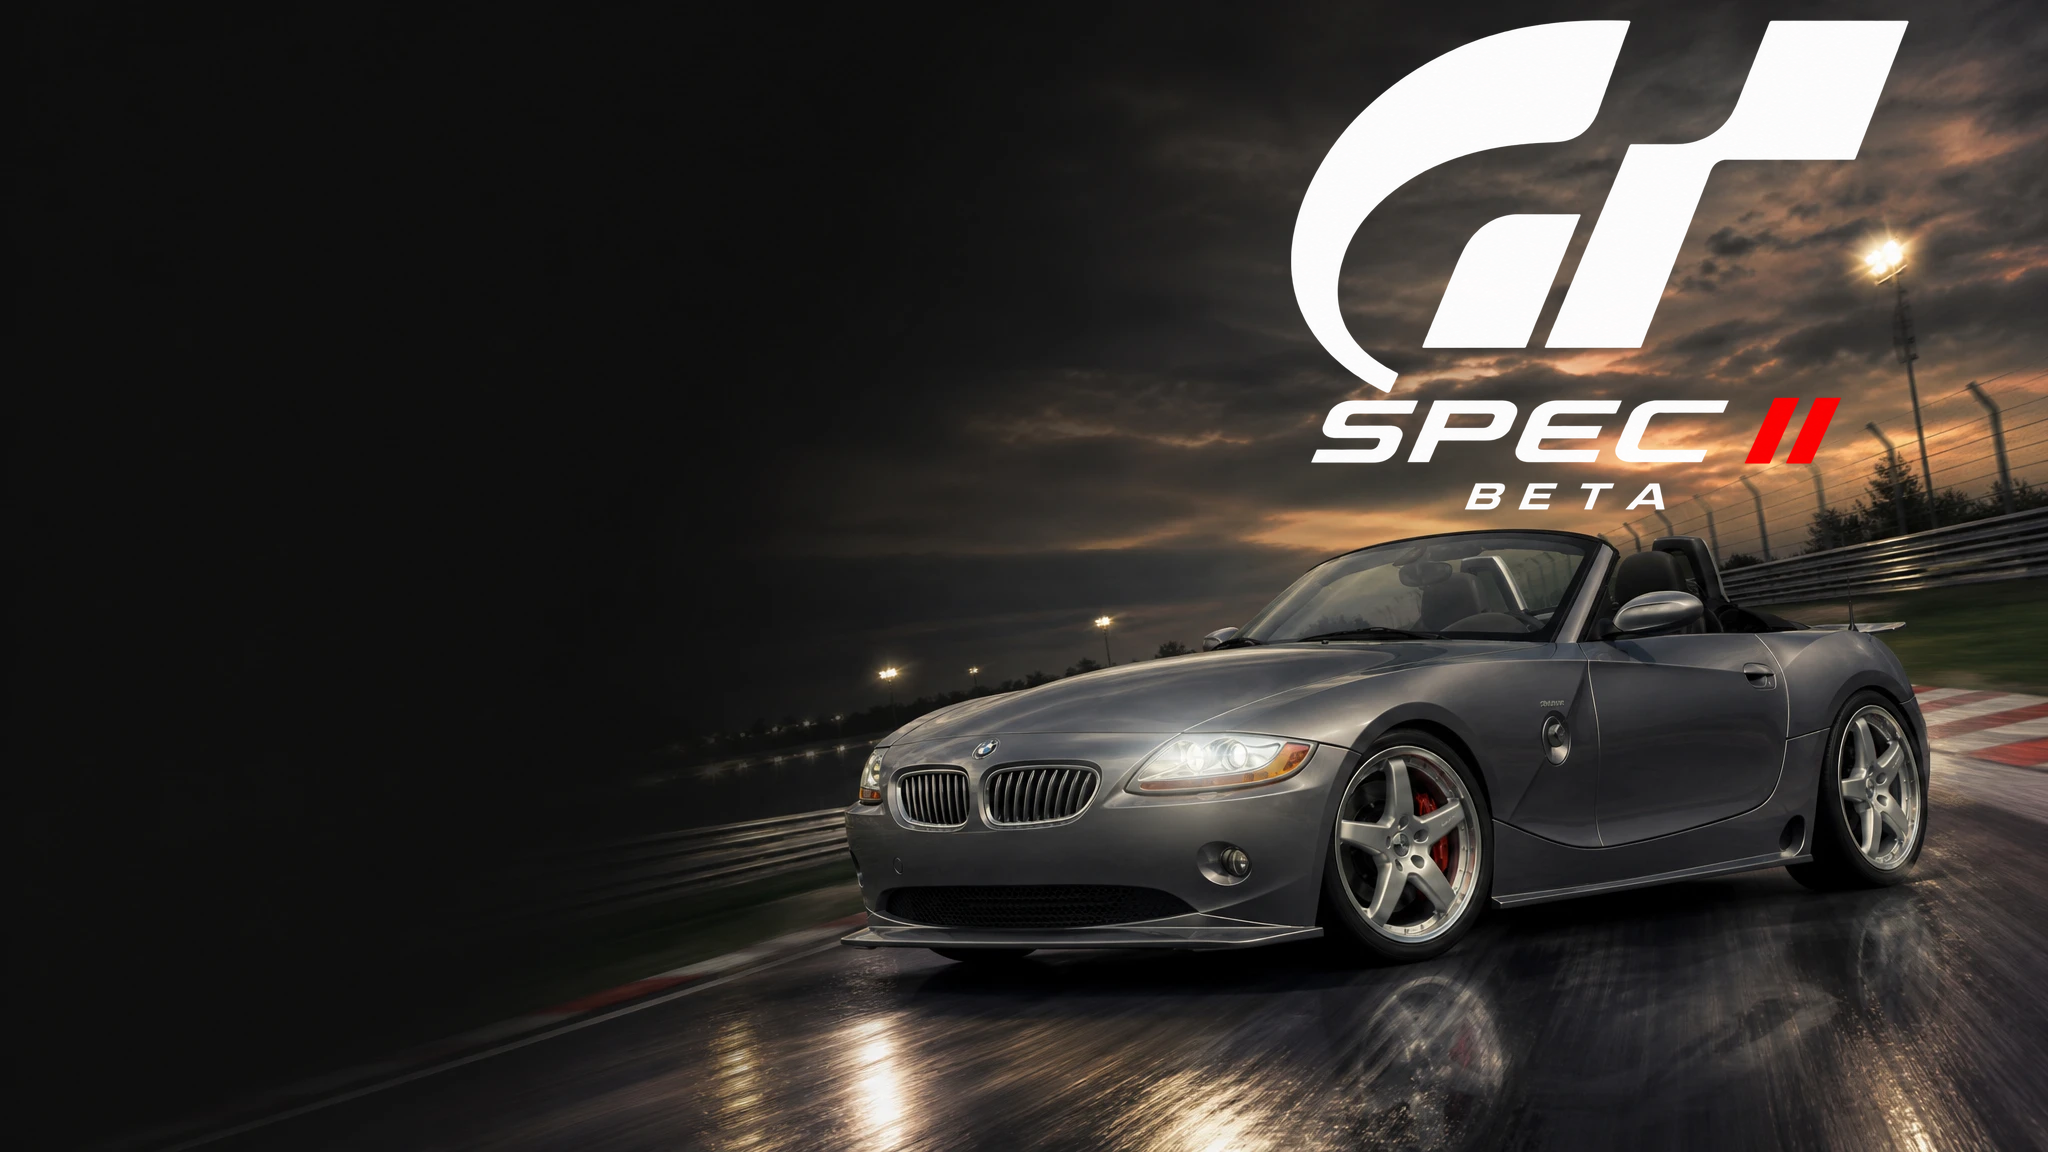
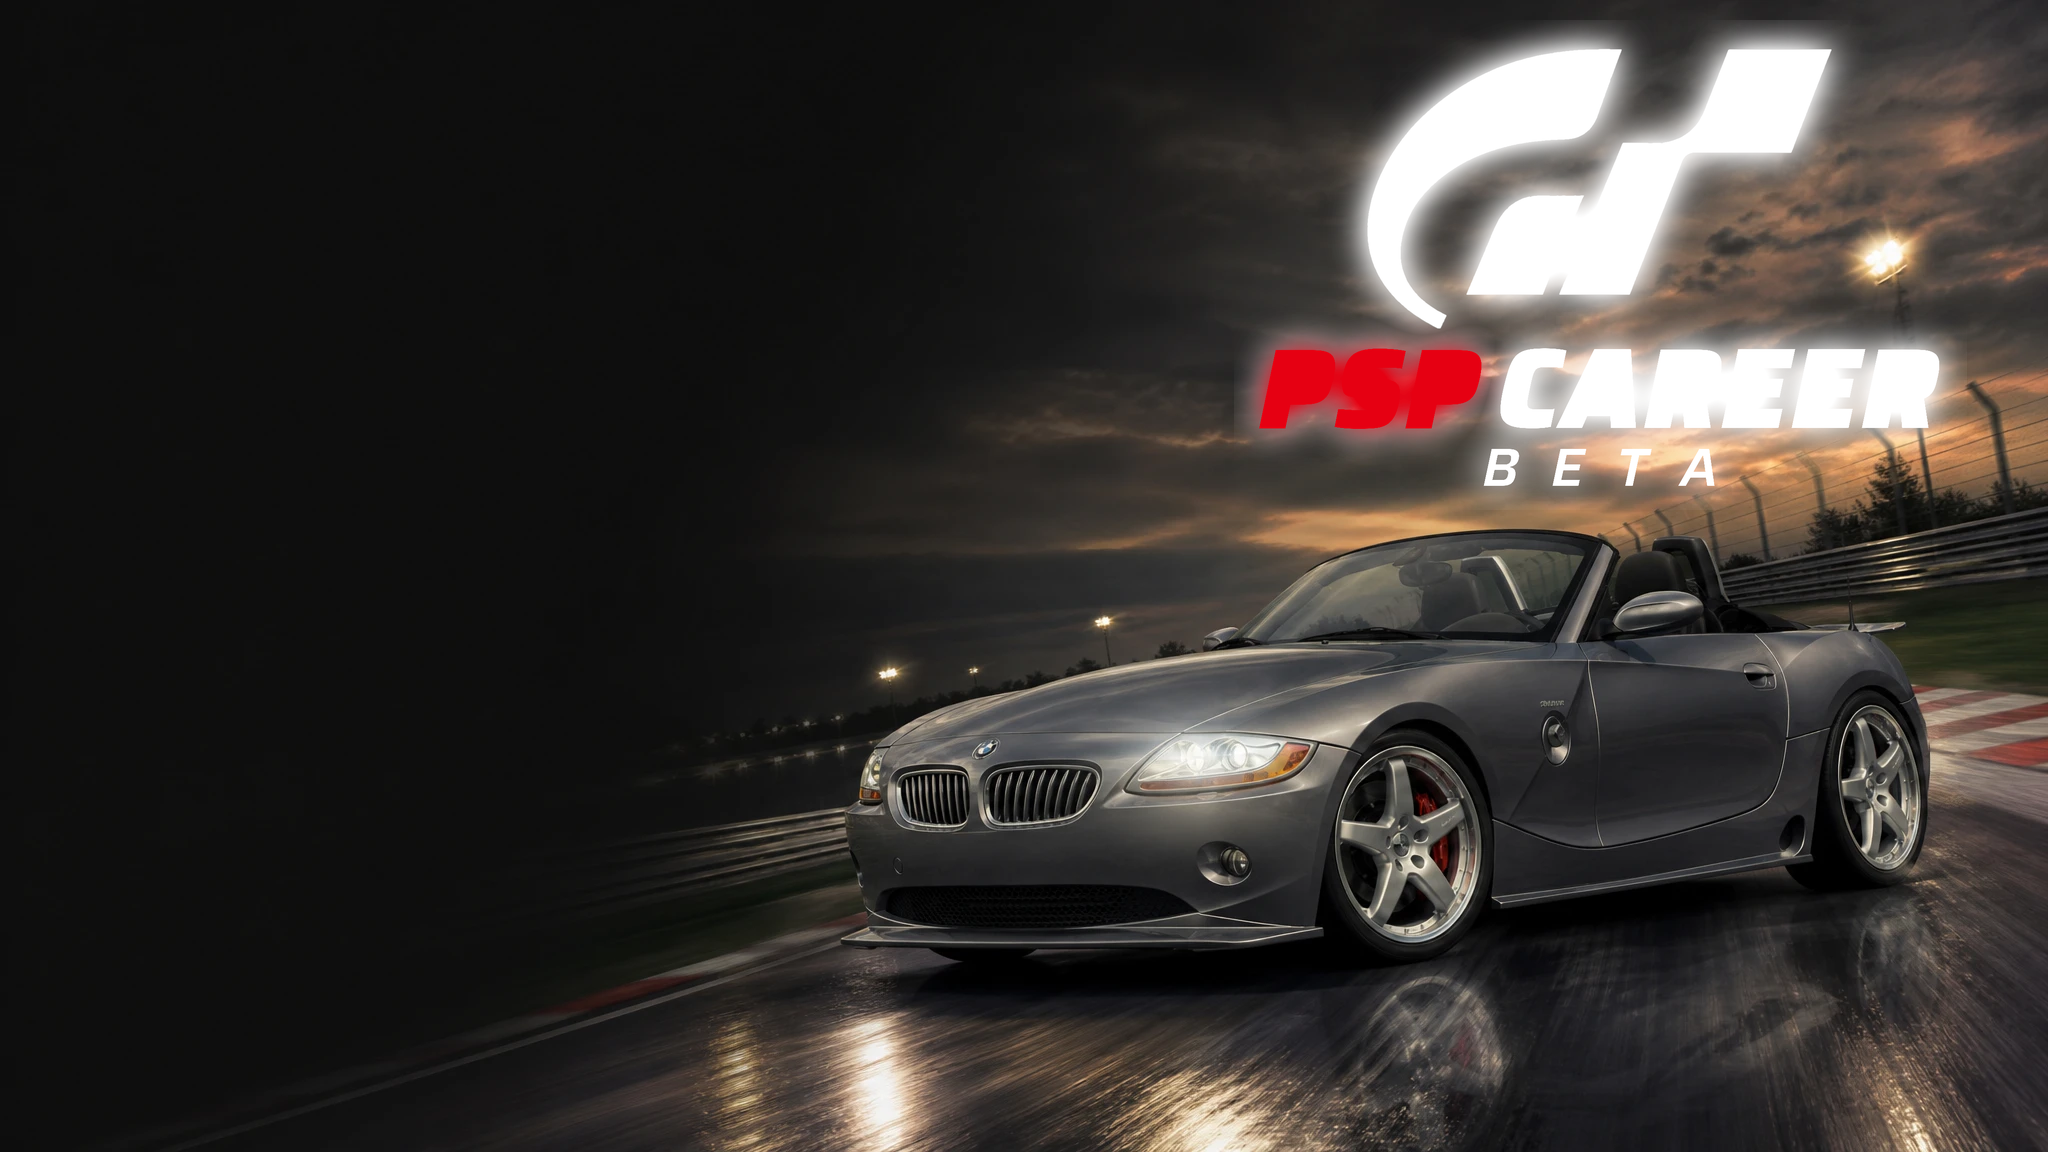
Rename the project to Gran Turismo PSP Career
New cover and trailer thumbnail, links to the renamed repository and patch
selector. Beta.1 asset filenames are unchanged, so the selector and install
table still point at them.

Changed region(s): [[0.5938, 0.0, 0.9688, 0.4688]]

diff --git a/docs/index.html b/docs/index.html
@@ -3,7 +3,7 @@
 <head>
   <meta charset="utf-8">
   <meta name="viewport" content="width=device-width, initial-scale=1">
-  <title>Find your GT Career: Spec II patch</title>
+  <title>Find your Gran Turismo PSP Career patch</title>
   <style>
     :root { color-scheme: dark; font-family: system-ui, -apple-system, BlinkMacSystemFont, "Segoe UI", sans-serif; }
     body { margin: 0; background: #101216; color: #f3f4f6; }
@@ -30,7 +30,7 @@
 </head>
 <body>
   <main>
-    <div class="eyebrow">GT Career: Spec II</div>
+    <div class="eyebrow">Gran Turismo PSP Career</div>
     <h1>Find the right patch for your game</h1>
     <p>Choose your original Gran Turismo PSP ISO. This page checks it on your device and points you to the matching beta patch. Your game file is never uploaded.</p>
 
@@ -46,12 +46,12 @@
       </div>
     </div>
 
-    <p class="small">Use a copy of your ISO when applying the patch with <a href="https://deltapatcher.net/">Delta Patcher</a>. See the <a href="https://github.com/Memetrix/gtpsp-career-spec-ii/blob/main/INSTALL.md">installation guide</a> for the three supported USA versions and save instructions. The European version is planned for the full release after beta.</p>
+    <p class="small">Use a copy of your ISO when applying the patch with <a href="https://deltapatcher.net/">Delta Patcher</a>. See the <a href="https://github.com/Memetrix/gran-turismo-psp-career/blob/main/INSTALL.md">installation guide</a> for the three supported USA versions and save instructions. The European version is planned for the full release after beta.</p>
     <details><summary>What does this page check?</summary><p>It reads the file size and CRC32 locally. Delta Patcher then verifies the original image before applying the patch. Supported USA CRC32 values: <code>9613AC93</code>, <code>1EADB6B4</code>, and <code>71DCC467</code>.</p></details>
   </main>
   <script>
     const expectedSize = 1097826304;
-    const release = 'https://github.com/Memetrix/gtpsp-career-spec-ii/releases/download/v0.27.2-beta.1/';
+    const release = 'https://github.com/Memetrix/gran-turismo-psp-career/releases/download/v0.27.2-beta.1/';
     const variants = {
       '9613AC93': ['USA UMD v1.00', 'GT-Career-SpecII-v0.27.2-beta.1-USA-UMD-v1.xdelta'],
       '1EADB6B4': ['USA UMD v2.00', 'GT-Career-SpecII-v0.27.2-beta.1-USA-UMD-v2.xdelta'],

diff --git a/README.md b/README.md
@@ -1,29 +1,29 @@
 <div align="center">
 
-# GT CAREER: SPEC II
+# GRAN TURISMO PSP CAREER
 
 ### The career Gran Turismo PSP never got.
 
-![GT Career: Spec II beta cover](art/cover.png)
+![Gran Turismo PSP Career beta cover](art/cover.png)
 
-**[WATCH THE TRAILER](https://www.youtube.com/watch?v=EhzWIxJF08s)** · **[DOWNLOAD PUBLIC BETA](https://github.com/Memetrix/gtpsp-career-spec-ii/releases/tag/v0.27.2-beta.1)** · **[INSTALLATION GUIDE](INSTALL.md)** · **[RELEASE NOTES](RELEASE-NOTES-v0.27.2-beta.1.md)**
+**[WATCH THE TRAILER](https://www.youtube.com/watch?v=EhzWIxJF08s)** · **[DOWNLOAD PUBLIC BETA](https://github.com/Memetrix/gran-turismo-psp-career/releases/tag/v0.27.2-beta.1)** · **[INSTALLATION GUIDE](INSTALL.md)** · **[RELEASE NOTES](RELEASE-NOTES-v0.27.2-beta.1.md)**
 
 **163 competitions · 763 rounds · 9 halls · 5 lost tracks on PSP Go**
 
 </div>
 
-Gran Turismo PSP has the cars and the driving. **Spec II gives them the career they were missing:** 163 competitions, a proper parts shop, prize cars and full-length endurance races.
+Gran Turismo PSP has the cars and the driving. **Gran Turismo PSP Career gives them the career they were missing:** 163 competitions, a proper parts shop, prize cars and full-length endurance races.
 
 ## Trailer
 
-[![Watch the GT Career: Spec II public beta trailer](art/trailer-thumbnail.jpg)](https://www.youtube.com/watch?v=EhzWIxJF08s)
+[![Watch the Gran Turismo PSP Career public beta trailer](art/trailer-thumbnail.jpg)](https://www.youtube.com/watch?v=EhzWIxJF08s)
 
 ## Career
 
 <table>
 <tr><td width="50%">
 <h3>163 competitions</h3>
-<p>Nine halls. 763 rounds. GT4 Spec II events and two Lost Circuits cups.</p>
+<p>Nine halls. 763 rounds. Championships, one-make races and two Lost Circuits cups.</p>
 </td><td width="50%">
 <h3>Progression</h3>
 <p>Licences, car eligibility, credits, trophies and prize cars.</p>
@@ -39,7 +39,7 @@ Gran Turismo PSP has the cars and the driving. **Spec II gives them the career t
 
 ## The tuning shop GT PSP never shipped
 
-GT PSP has Quick Tune, but no parts shop. Spec II adds one: buy engine parts, tyres and suspension, fit them, and feel the difference on track. Bought parts stay yours when removed.
+GT PSP has Quick Tune, but no parts shop. Gran Turismo PSP Career adds one: buy engine parts, tyres and suspension, fit them, and feel the difference on track. Bought parts stay yours when removed.
 
 <table>
 <tr><td width="50%"><img src="screenshots/18-tuning-na.png" alt="Natural aspiration upgrades and prices in the tuning shop" width="480"><br><sub>Buy and fit engine parts</sub></td><td width="50%"><img src="screenshots/08-suspension.png" alt="Suspension settings for the selected car" width="480"><br><sub>Adjust a fitted suspension kit</sub></td></tr>
@@ -58,16 +58,16 @@ Hong Kong, Rome Circuit, Complex String and Smokey Mountain once crashed the PSP
 ## See the career
 
 <table>
-<tr><td><img src="screenshots/11-career-entry.png" alt="GT Career entry on the PSP main menu" width="480"><br><sub>GT Career</sub></td><td><img src="screenshots/12-career-halls-selected.png" alt="Career hall selection" width="480"><br><sub>Event halls</sub></td></tr>
+<tr><td><img src="screenshots/11-career-entry.png" alt="Career entry on the PSP main menu" width="480"><br><sub>Career entry</sub></td><td><img src="screenshots/12-career-halls-selected.png" alt="Career hall selection" width="480"><br><sub>Event halls</sub></td></tr>
 <tr><td><img src="screenshots/13-extreme-championship.png" alt="Gran Turismo World Championship in Extreme Events" width="480"><br><sub>World Championship</sub></td><td><img src="screenshots/17-mr-challenge.png" alt="MR Challenge event card showing eligibility and prize car" width="480"><br><sub>MR Challenge</sub></td></tr>
 </table>
 
 ## Get the public beta
 
-This release has patches for three **Gran Turismo PSP USA** ISO variants. European support is planned for the full release. The patches do not include the game. [Select your ISO to find the right patch](https://memetrix.github.io/gtpsp-career-spec-ii/), then apply it with the free [Delta Patcher](https://deltapatcher.net/) for Windows or macOS. The game file stays on your device during the check. Copy the finished ISO to your PSP or open it in PPSSPP.
+This release has patches for three **Gran Turismo PSP USA** ISO variants. European support is planned for the full release. The patches do not include the game. [Select your ISO to find the right patch](https://memetrix.github.io/gran-turismo-psp-career/), then apply it with the free [Delta Patcher](https://deltapatcher.net/) for Windows or macOS. The game file stays on your device during the check. Copy the finished ISO to your PSP or open it in PPSSPP.
 
-**[Download v0.27.2-beta.1](https://github.com/Memetrix/gtpsp-career-spec-ii/releases/tag/v0.27.2-beta.1)** · [Detailed installation and save instructions](INSTALL.md) · [Release notes](RELEASE-NOTES-v0.27.2-beta.1.md) · [Credits and licences](NOTICE.md)
+**[Download v0.27.2-beta.1](https://github.com/Memetrix/gran-turismo-psp-career/releases/tag/v0.27.2-beta.1)** · [Detailed installation and save instructions](INSTALL.md) · [Release notes](RELEASE-NOTES-v0.27.2-beta.1.md) · [Credits and licences](NOTICE.md)
 
 For the current beta limits and hardware test status, see the [release notes](RELEASE-NOTES-v0.27.2-beta.1.md) and the [tested-device list](TESTED-DEVICES.md). This is an unofficial fan project; Gran Turismo and the original game assets belong to their respective owners.
 
-Found a problem? [Open an issue](https://github.com/Memetrix/gtpsp-career-spec-ii/issues) with the console model or PPSSPP version, event and round, what happened, and whether it happens after a cold launch.
+Found a problem? [Open an issue](https://github.com/Memetrix/gran-turismo-psp-career/issues) with the console model or PPSSPP version, event and round, what happened, and whether it happens after a cold launch.

diff --git a/RELEASE-NOTES-v0.27.2-beta.1.md b/RELEASE-NOTES-v0.27.2-beta.1.md
@@ -1,12 +1,12 @@
-# GT Career: Spec II — public beta 0.27.2-beta.1
+# Gran Turismo PSP Career — public beta 0.27.2-beta.1
 
 [Watch the public beta trailer](https://www.youtube.com/watch?v=EhzWIxJF08s).
 
-This is the first public beta. It adds a GT4 Spec II-inspired career to Gran Turismo PSP without replacing the original game modes. The beta includes a new cover, PSP menu icon and background.
+This is the first public beta. It adds a GT4-style career to Gran Turismo PSP without replacing the original game modes. The beta includes a new cover, PSP menu icon and background.
 
 ## In this release
 
-- **Career:** nine halls; 161 GT4 Spec II-derived competitions and two Lost Circuits events. Forty-two continuation cards keep longer series together, for 205 career cards and 763 rounds. Two additional Hidden Course Test cards are experimental and do not count toward completion.
+- **Career:** nine halls; 161 competitions adapted from GT4 Spec II 1.10 (credited in NOTICE) and two Lost Circuits events. Forty-two continuation cards keep longer series together, for 205 career cards and 763 rounds. Two additional Hidden Course Test cards are experimental and do not count toward completion.
 - **Progression:** car restrictions, PSP Driving Challenge licence gates, credits, trophies and prize cars. Career progress uses a separate save slot. On first launch it can copy garage and credits from a stock PSP profile without overwriting that profile. The garage marks cars that fit an event.
 - **Championships:** long seasons span six-round pages while retaining the same opponents and a single 10/8/6/4 points table. The championship reward is paid only after the final round. World Circuit Tour retains separate stage wins. Normal grids have four cars; Special Conditions are duels.
 - **Tuning:** a shop for engine parts, tyres and suspension kits, with persistent ownership and fitted configuration. Ten engine categories use native car parameters: turbo, NA tune, exhaust, ECU, intercooler, port polish, weight reduction, engine balance, displacement and supercharger. Adjustable suspension and applicable brake controls are included. A Delta Integrale measured 7.596 s stock and 4.261 s fully upgraded from 0–100 km/h on the test oval. The purchase journal holds at most 192 tuned-car configurations.
@@ -25,7 +25,7 @@ The v0.27.2 game volume has been played on PSP Go. Beta.1 keeps that volume byte
 
 ## Download and install
 
-Use the [patch selector](https://memetrix.github.io/gtpsp-career-spec-ii/) to pick your original USA ISO and download the matching `.xdelta`, then apply it with the free [Delta Patcher](https://deltapatcher.net/) for Windows or macOS. The ISO stays on your device during the check. Three USA image variants are supported; the [installation guide](https://github.com/Memetrix/gtpsp-career-spec-ii/blob/main/INSTALL.md) also lists their CRC32 values for manual selection. The smaller ZIP remains available as a command-line alternative for the originally supported image. **The downloads contain no game ISO or save file.**
+Use the [patch selector](https://memetrix.github.io/gran-turismo-psp-career/) to pick your original USA ISO and download the matching `.xdelta`, then apply it with the free [Delta Patcher](https://deltapatcher.net/) for Windows or macOS. The ISO stays on your device during the check. Three USA image variants are supported; the [installation guide](https://github.com/Memetrix/gran-turismo-psp-career/blob/main/INSTALL.md) also lists their CRC32 values for manual selection. The smaller ZIP remains available as a command-line alternative for the originally supported image. **The downloads contain no game ISO or save file.**
 
 The European `UCES01245` version is not supported in this beta. European support is planned for the full release.
 

diff --git a/INSTALL.md b/INSTALL.md
@@ -1,8 +1,8 @@
-# Install GT Career: Spec II
+# Install Gran Turismo PSP Career
 
 You need your own unmodified **Gran Turismo PSP USA** ISO. The patch does not include the game.
 
-**[Find the right patch for your ISO](https://memetrix.github.io/gtpsp-career-spec-ii/)** — choose the ISO file and download the patch it recommends. The check runs on your device; the ISO is never uploaded.
+**[Find the right patch for your ISO](https://memetrix.github.io/gran-turismo-psp-career/)** — choose the ISO file and download the patch it recommends. The check runs on your device; the ISO is never uploaded.
 
 1. Download the recommended `.xdelta`, plus the free [Delta Patcher](https://deltapatcher.net/) for Windows or macOS.
 2. Make a copy of your original ISO. In Delta Patcher, choose the copy under **Original file**.
@@ -10,7 +10,7 @@ You need your own unmodified **Gran Turismo PSP USA** ISO. The patch does not in
 
 These are screenshots from an actual installation; your file paths will differ.
 
-![Original ISO and Spec II patch selected in Delta Patcher](screenshots/delta-patcher-ready.jpg)
+![Original ISO and the career patch selected in Delta Patcher](screenshots/delta-patcher-ready.jpg)
 
 ![Delta Patcher confirming the patch was applied](screenshots/delta-patcher-success.jpg)
 
@@ -25,7 +25,7 @@ If Delta Patcher reports a checksum error, check that you picked the patch for y
 | USA UMD v1.00 | `9613AC93` | `GT-Career-SpecII-v0.27.2-beta.1-USA-UMD-v1.xdelta` |
 | Originally supported USA v2.00 image | `71DCC467` | `GT-Career-SpecII-v0.27.2-beta.1.xdelta` |
 
-All three patches are on the [release page](https://github.com/Memetrix/gtpsp-career-spec-ii/releases/tag/v0.27.2-beta.1) and produce the same beta ISO.
+All three patches are on the [release page](https://github.com/Memetrix/gran-turismo-psp-career/releases/tag/v0.27.2-beta.1) and produce the same beta ISO.
 
 </details>
 
@@ -41,11 +41,11 @@ Back up your savedata before trying the beta or updating from an older version. 
[1 lines of base64/hex data omitted]
 
 ```sh
-python3 apply_patch.py "/path/to/your/original.iso" "/path/to/GT-Career-SpecII-beta.iso"
+python3 apply_patch.py "/path/to/your/original.iso" "/path/to/Gran-Turismo-PSP-Career-beta.iso"
 ```
 
 On Windows, use `python` or `py` in place of `python3`. If `dotnet` is not on your PATH, add `--dotnet /path/to/dotnet`. This installer leaves the original ISO untouched.
 
 </details>
 
-For features and known beta limits, see the [release notes](RELEASE-NOTES-v0.27.2-beta.1.md). [Report a problem](https://github.com/Memetrix/gtpsp-career-spec-ii/issues) with the console model or PPSSPP version, event and round, and what happened.
+For features and known beta limits, see the [release notes](RELEASE-NOTES-v0.27.2-beta.1.md). [Report a problem](https://github.com/Memetrix/gran-turismo-psp-career/issues) with the console model or PPSSPP version, event and round, and what happened.

diff --git a/NOTICE.md b/NOTICE.md
@@ -1,9 +1,9 @@
 # Credits and licences
 
-GT Career is based on the OpenAdhoc script reconstruction by Nenkai and contributors. The modified gameplay script source is supplied in the accompanying `GT-Career-v0.27.2-source.tar.gz` archive under GPL-3.0; this beta bundle also includes the new cover and patching scripts. See `LICENSE` and the retained notices in the source tree.
+Gran Turismo PSP Career is based on the OpenAdhoc script reconstruction by Nenkai and contributors. The modified gameplay script source is supplied in the accompanying `GT-Career-v0.27.2-source.tar.gz` archive under GPL-3.0; this beta bundle also includes the new cover and patching scripts. See `LICENSE` and the retained notices in the source tree.
 
 The patch bundle includes a modified build of Nenkai's GTPSPVolTools (MIT licence). Its upstream copyright notice, licence and our source diff are included in `tool-source/`. Other binary dependencies retain their upstream notices in the tool package.
 
-GT4 Spec II 1.10 event data is credited to TheAdmiester and contributors. GT Career's event adaptations, scripts, interface and packaging are project work.
+The career events in beta 0.27.2-beta.1 were adapted from GT4 Spec II 1.10 event data by TheAdmiester and contributors; later betas replace them with an event set designed from scratch. Scripts, interface and packaging are project work.
 
 Gran Turismo, game assets and trademarks belong to their respective owners. This release supplies a patch and source code, not the original game image or any save data.

diff --git a/TESTED-DEVICES.md b/TESTED-DEVICES.md
@@ -13,4 +13,4 @@ These are reports for the public beta or its byte-identical v0.27.2 gameplay vol
 
 We don't yet have a test report for **PSP-1000, PSP-2000, PSP-3000 or PSP Street**. The Vita report covers Adrenaline 6.61, not every Vita setup. The European game image does not have a patch in this beta.
 
-If you test another device, [open an issue](https://github.com/Memetrix/gtpsp-career-spec-ii/issues) with its model, firmware or PPSSPP version, the event you played, and whether you saved and reopened the game. We'll add concrete reports here.
+If you test another device, [open an issue](https://github.com/Memetrix/gran-turismo-psp-career/issues) with its model, firmware or PPSSPP version, the event you played, and whether you saved and reopened the game. We'll add concrete reports here.
